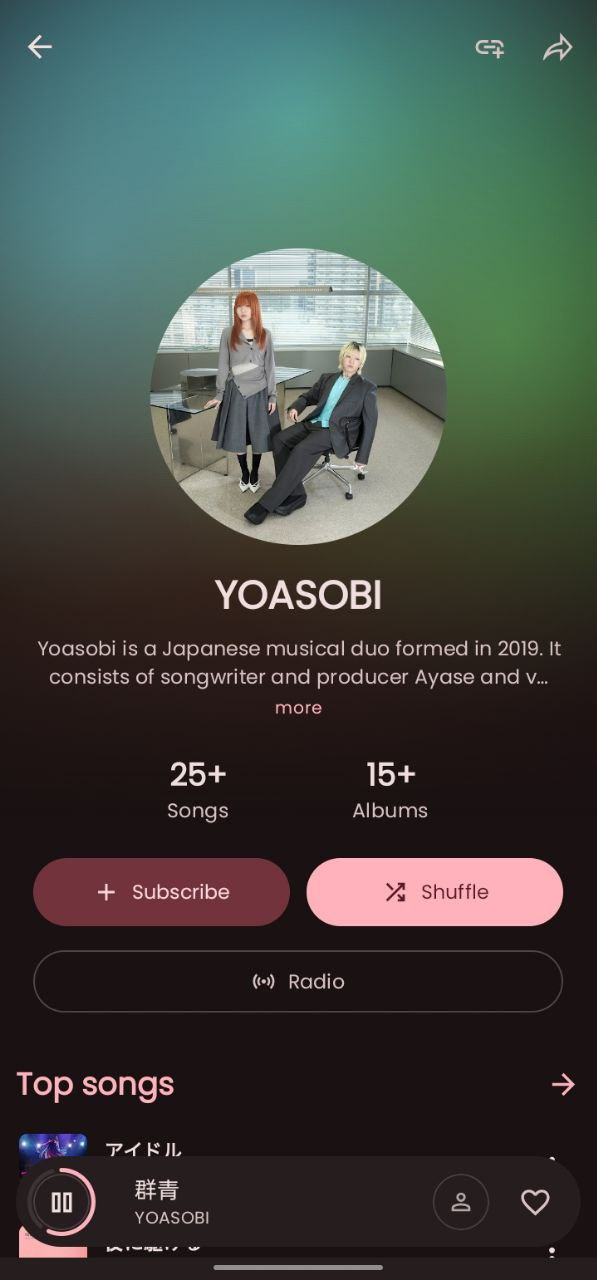
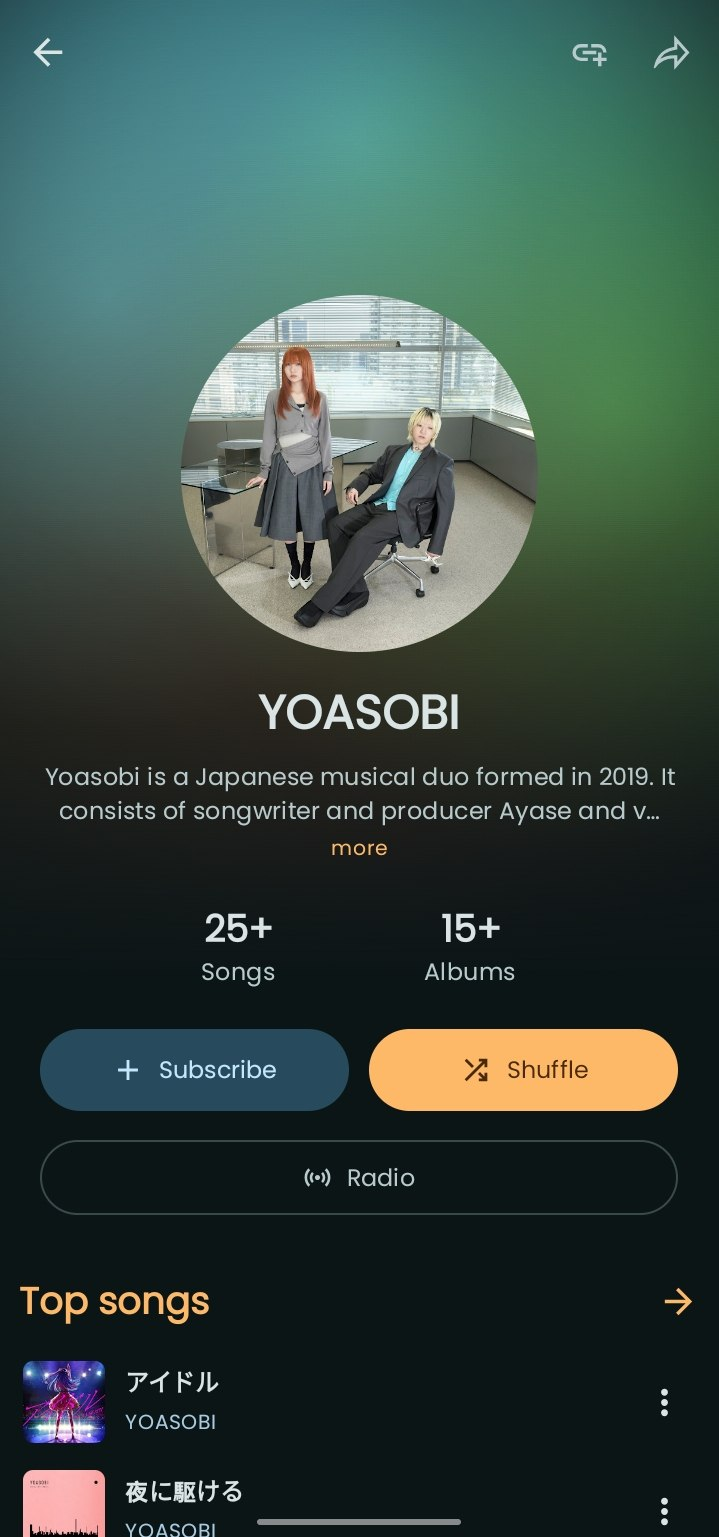
patch

diff --git a/app/src/main/kotlin/moe/koiverse/archivetune/ui/screens/artist/ArtistScreen.kt b/app/src/main/kotlin/moe/koiverse/archivetune/ui/screens/artist/ArtistScreen.kt
@@ -164,7 +164,7 @@ fun ArtistScreen(
     val librarySongs by viewModel.librarySongs.collectAsState()
     val libraryAlbums by viewModel.libraryAlbums.collectAsState()
     val hideExplicit by rememberPreference(key = HideExplicitKey, defaultValue = false)
-    val (disableBlur) = rememberPreference(DisableBlurKey, true)
+    val (disableBlur) = rememberPreference(DisableBlurKey, false)
 
     val lazyListState = rememberLazyListState()
     val snackbarHostState = remember { SnackbarHostState() }

diff --git a/app/src/main/kotlin/moe/koiverse/archivetune/ui/screens/playlist/CachePlaylistScreen.kt b/app/src/main/kotlin/moe/koiverse/archivetune/ui/screens/playlist/CachePlaylistScreen.kt
@@ -141,7 +141,7 @@ fun CachePlaylistScreen(
     )
     val (sortDescending, onSortDescendingChange) = rememberPreference(SongSortDescendingKey, true)
     val hideExplicit by rememberPreference(key = HideExplicitKey, defaultValue = false)
-    val (disableBlur) = rememberPreference(DisableBlurKey, true)
+    val (disableBlur) = rememberPreference(DisableBlurKey, false)
 
     val wrappedSongs = remember(cachedSongs, sortType, sortDescending) {
         val sortedSongs = when (sortType) {

diff --git a/app/src/main/kotlin/moe/koiverse/archivetune/ui/screens/playlist/AutoPlaylistScreen.kt b/app/src/main/kotlin/moe/koiverse/archivetune/ui/screens/playlist/AutoPlaylistScreen.kt
@@ -166,7 +166,7 @@ fun AutoPlaylistScreen(
 
     val (ytmSync) = rememberPreference(YtmSyncKey, true)
     val hideExplicit by rememberPreference(key = HideExplicitKey, defaultValue = false)
-    val (disableBlur) = rememberPreference(DisableBlurKey, true)
+    val (disableBlur) = rememberPreference(DisableBlurKey, false)
 
     val likeLength = remember(songs) {
         songs?.fastSumBy { it.song.duration } ?: 0

diff --git a/README.md b/README.md
@@ -67,23 +67,44 @@
 ## 📸 Showcase
 
 <div align="center">
-  <img src="https://raw.githubusercontent.com/koiverse/ArchiveTune/refs/heads/dev/fastlane/metadata/android/en-US/images/ArchiveTuneBanner.png" alt="ArchiveTune Banner" style="width: 100%; max-width: 400px; border-radius: 12px;">
+  <img src="https://raw.githubusercontent.com/koiverse/ArchiveTune/refs/heads/dev/fastlane/metadata/android/en-US/images/ArchiveTuneBanner.png" alt="ArchiveTune Banner" style="width: 100%; max-width: 400px; border-radius: 12px;" />
+
   <table border="0">
     <tr>
-      <td><img src="https://github.com/koiverse/ArchiveTune/blob/main/fastlane/metadata/android/en-US/images/phoneScreenshots/screenshot_1.jpg" width="180" style="border-radius: 12px;"></td>
-      <td><img src="https://github.com/koiverse/ArchiveTune/blob/main/fastlane/metadata/android/en-US/images/phoneScreenshots/screenshot_2.jpg" width="180" style="border-radius: 12px;"></td>
-      <td><img src="https://github.com/koiverse/ArchiveTune/blob/main/fastlane/metadata/android/en-US/images/phoneScreenshots/screenshot_3.jpg" width="180" style="border-radius: 12px;"></td>
-      <td><img src="https://github.com/koiverse/ArchiveTune/blob/main/fastlane/metadata/android/en-US/images/phoneScreenshots/screenshot_4.jpg" width="180" style="border-radius: 12px;"></td>
-      <td><img src="https://github.com/koiverse/ArchiveTune/blob/main/fastlane/metadata/android/en-US/images/phoneScreenshots/screenshot_5.jpg" width="180" style="border-radius: 12px;"></td>
-      <td><img src="https://github.com/koiverse/ArchiveTune/blob/main/fastlane/metadata/android/en-US/images/phoneScreenshots/screenshot_6.jpg" width="180" style="border-radius: 12px;"></td>
+      <td align="center">
+        <img src="https://github.com/koiverse/ArchiveTune/blob/main/fastlane/metadata/android/en-US/images/phoneScreenshots/screenshot_1.jpg" width="180" style="border-radius: 12px;"><br>
+        <sub>Browse</sub>
+      </td>
+      <td align="center">
+        <img src="https://github.com/koiverse/ArchiveTune/blob/main/fastlane/metadata/android/en-US/images/phoneScreenshots/screenshot_2.jpg" width="180" style="border-radius: 12px;"><br>
+        <sub>Live Lyrics</sub>
+      </td>
+      <td align="center">
+        <img src="https://github.com/koiverse/ArchiveTune/blob/main/fastlane/metadata/android/en-US/images/phoneScreenshots/screenshot_3.jpg" width="180" style="border-radius: 12px;"><br>
+        <sub>Theme Customization</sub>
+      </td>
+      <td align="center">
+        <img src="https://github.com/koiverse/ArchiveTune/blob/main/fastlane/metadata/android/en-US/images/phoneScreenshots/screenshot_4.jpg" width="180" style="border-radius: 12px;"><br>
+        <sub>Live Statistics</sub>
+      </td>
     </tr>
-    <tr align="center">
-      <td><sub>Player</sub></td>
-      <td><sub>Live Lyrics</sub></td>
-      <td><sub>Theme Customization</sub></td>
-      <td><sub>Live Statistics</sub></td>
-      <td><sub>Artist</sub></td>
-      <td><sub>Album</sub></td>
+    <tr>
+      <td align="center">
+        <img src="https://github.com/koiverse/ArchiveTune/blob/main/fastlane/metadata/android/en-US/images/phoneScreenshots/screenshot_5.jpg" width="180" style="border-radius: 12px;"><br>
+        <sub>Artist</sub>
+      </td>
+      <td align="center">
+        <img src="https://github.com/koiverse/ArchiveTune/blob/main/fastlane/metadata/android/en-US/images/phoneScreenshots/screenshot_6.jpg" width="180" style="border-radius: 12px;"><br>
+        <sub>Album</sub>
+      </td>
+      <td align="center">
+        <img src="https://github.com/koiverse/ArchiveTune/blob/main/fastlane/metadata/android/en-US/images/phoneScreenshots/screenshot_7.jpg" width="180" style="border-radius: 12px;"><br>
+        <sub>Player</sub>
+      </td>
+      <td align="center">
+        <img src="https://github.com/koiverse/ArchiveTune/blob/main/fastlane/metadata/android/en-US/images/phoneScreenshots/screenshot_8.jpg" width="180" style="border-radius: 12px;"><br>
+        <sub>Settings</sub>
+      </td>
     </tr>
   </table>
 </div>
